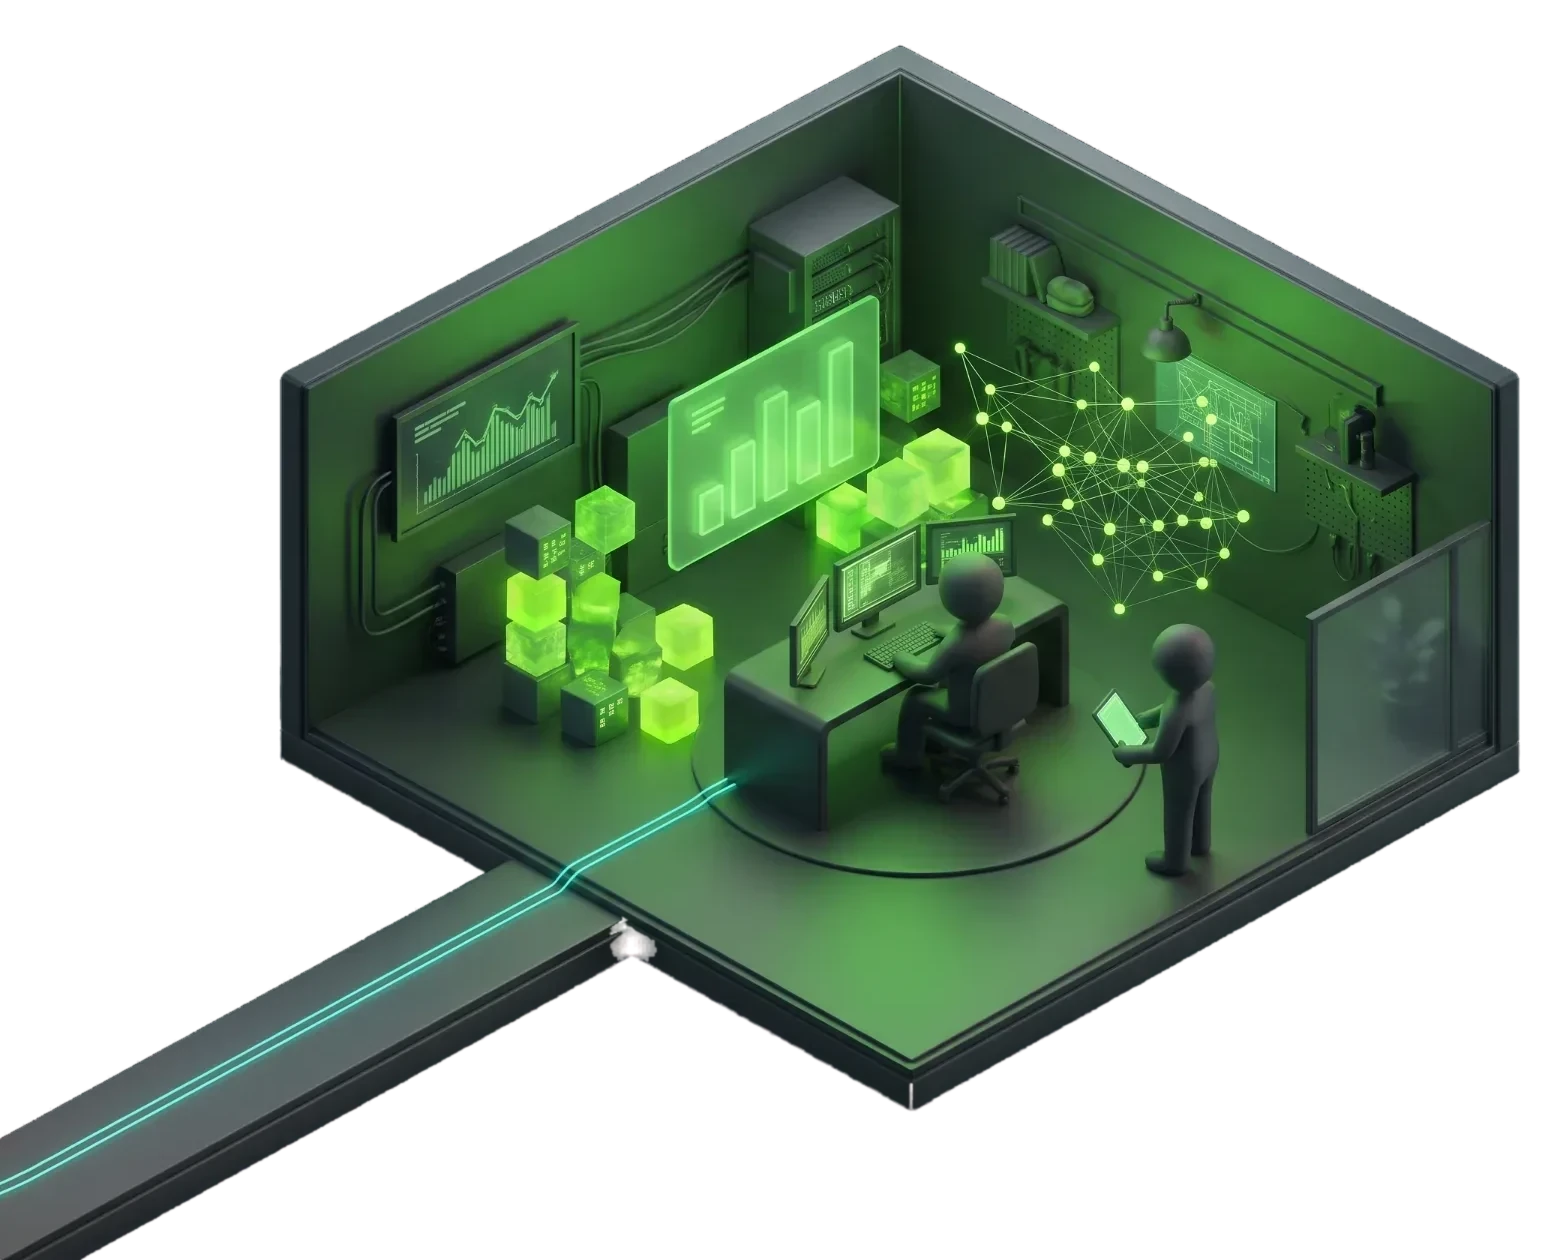
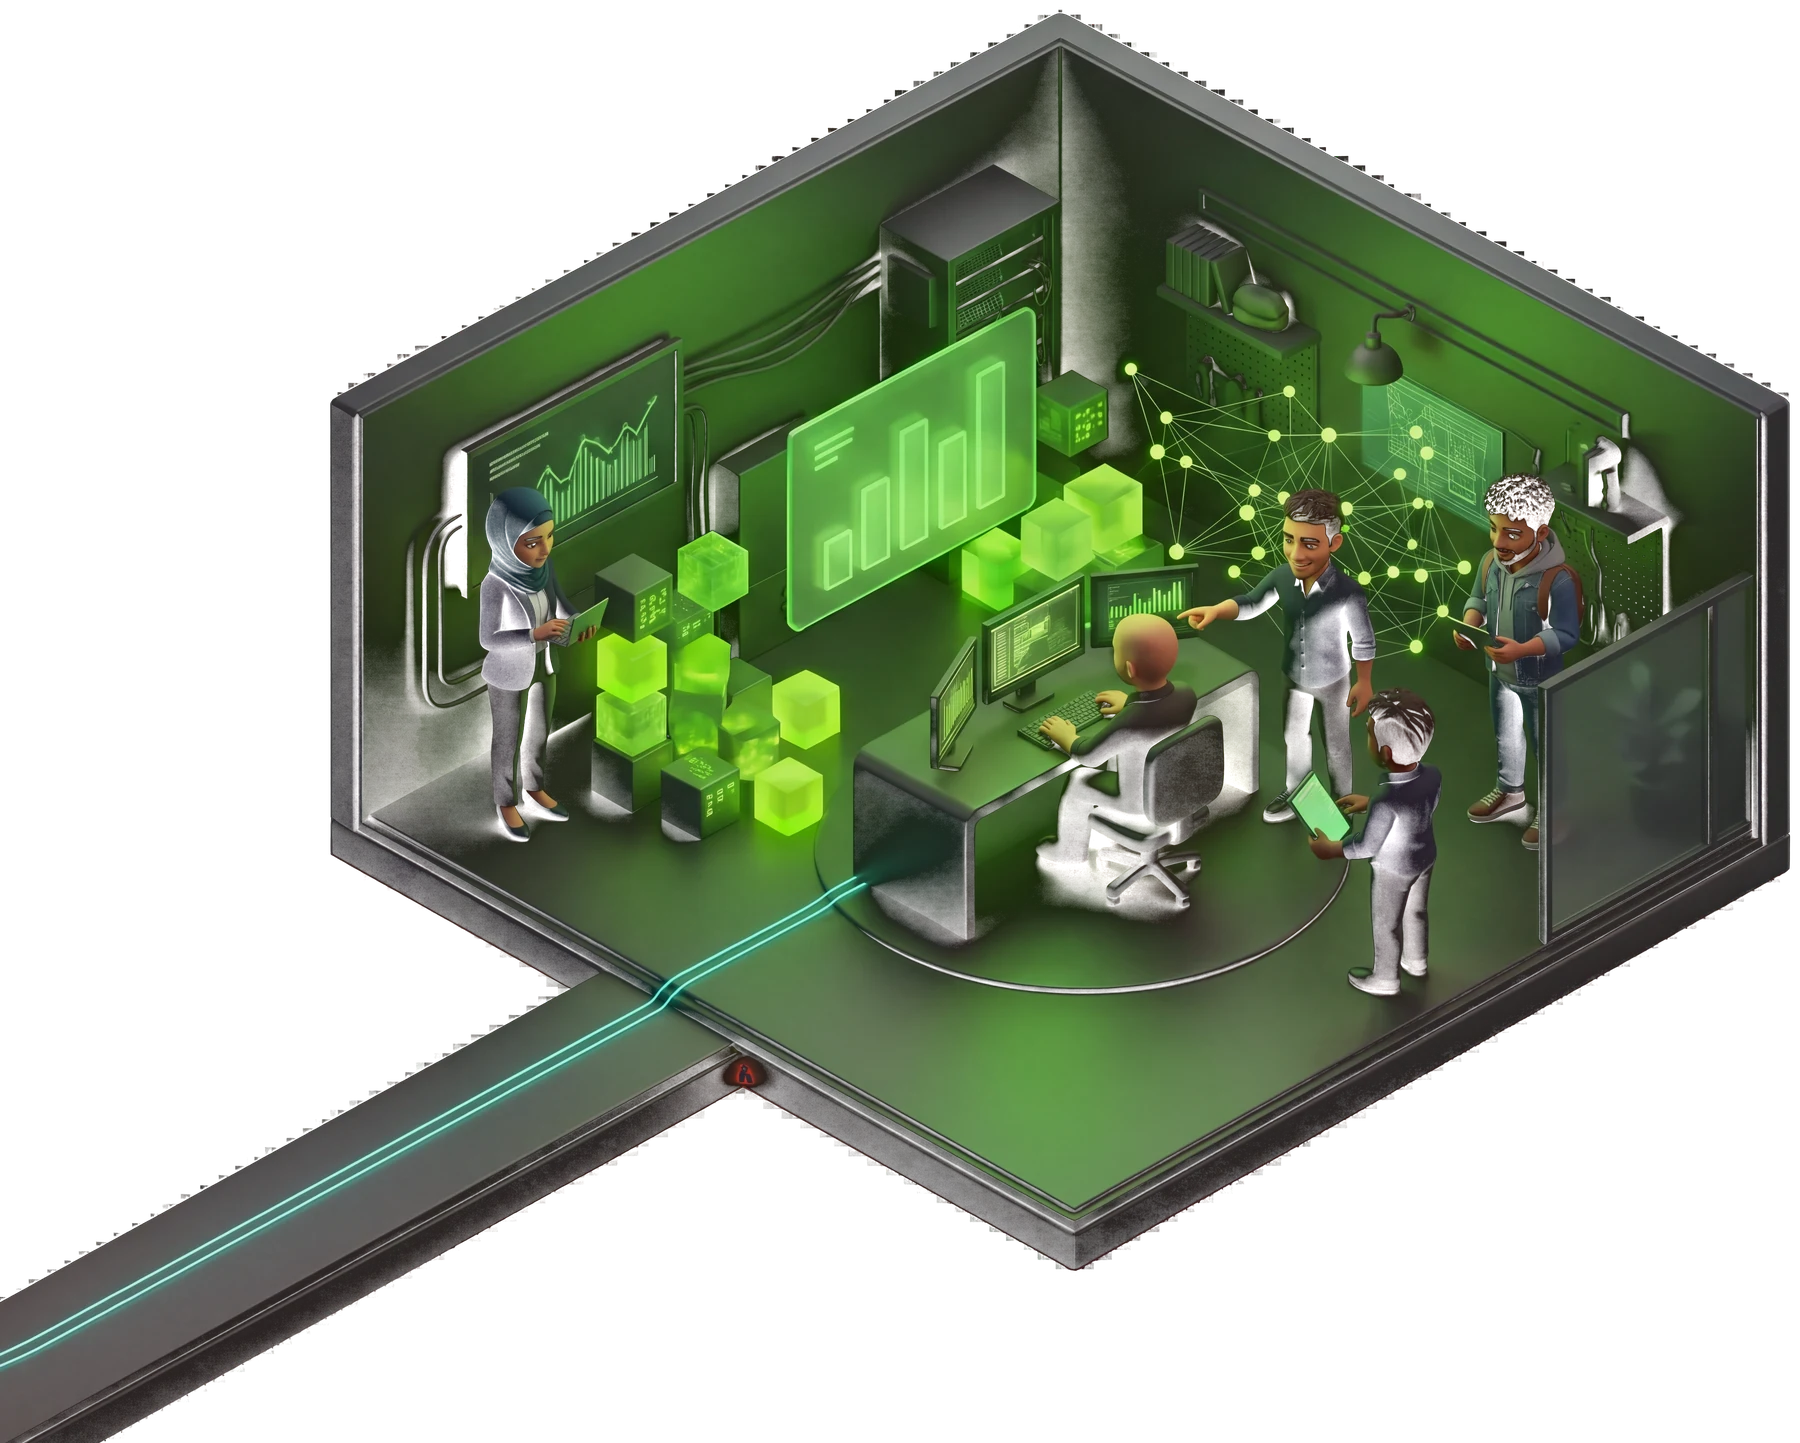
Landing: new QuidQuo lab and house hero with Ahmed and Karim
Lab regenerated with both partners at the desk; hero house with real cartoon
people in every room. Label and thread positions updated for the lab.

Claude-Session: https://claude.ai/code/session_018RCKuAqLNg43PyQqtjNNDi

diff --git a/src/app/site/page.tsx b/src/app/site/page.tsx
@@ -90,9 +90,9 @@ const SPACES: Space[] = [
     cta: "Join the waitlist",
     href: "/quidquo",
     photo: "/landing/lab.webp",
-    size: [1564, 1260],
-    labels: [{ label: "Waitlist open", x: 77.1, y: 26.4 }],
-    flows: [[[0.0, 96.8], [35.7, 68.0], [44.9, 63.7]]],
+    size: [1800, 1443],
+    labels: [{ label: "Waitlist open", x: 72, y: 22 }],
+    flows: [[[0, 94], [37, 68], [48, 60.5]]],
     icon: Cpu,
   },
 ];
@@ -255,8 +255,8 @@ export default async function SitePage() {
               <FloatingScene
                 src="/landing/house.webp"
                 alt="A 3D cutaway of the VentureWeavers house: a show stage, a classroom, a workshop and an AI lab, joined by glowing teal threads"
-                width={1764}
-                height={1455}
+                width={2000}
+                height={1623}
                 priority
                 sizes="(min-width: 900px) 760px, 100vw"
                 hotspots={HOUSE_SPOTS}
